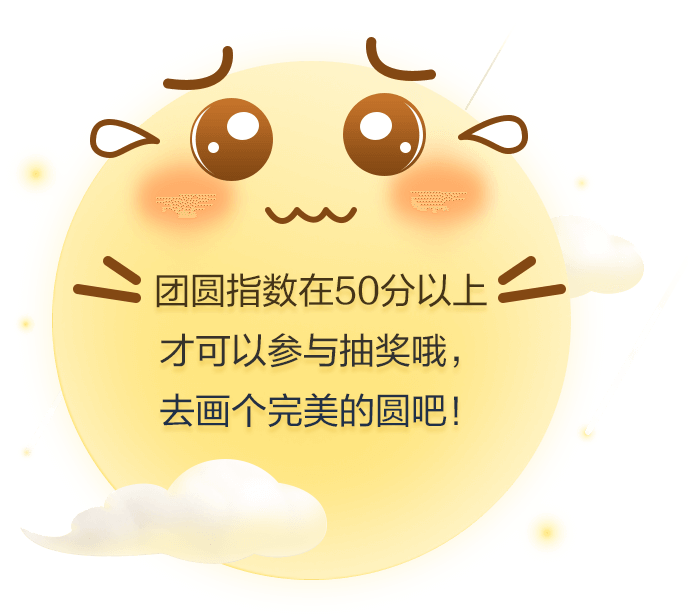
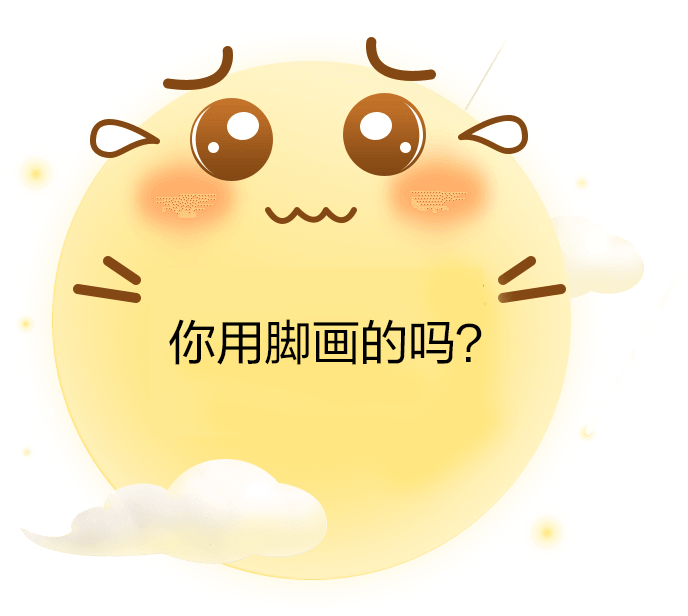
fix

Changed region(s): [[0.2137, 0.4318, 0.7326, 0.7711]]

diff --git a/index.html b/index.html
@@ -6,7 +6,7 @@
   <script>
     !function (a) { var b, c; /Android (\d+\.\d+)/.test(navigator.userAgent) ? (b = parseFloat(RegExp.$1), b > 2.3 ? (c = parseInt(window.screen.width) / a, document.write('<meta name="viewport" content="width=' + a + ",minimum-scale=" + c + ",maximum-scale=" + c + ', target-densitydpi=device-dpi">')) : document.write('<meta name="viewport" content="width=' + a + ',target-densitydpi=device-dpi">')) : document.write('<meta name="viewport" content="width=' + a + ',user-scalable=no,target-densitydpi=device-dpi,minimal-ui,viewport-fit=cover">') }(750);
   </script>
-  <link rel="stylesheet" href="index.css?v=1604">
+  <link rel="stylesheet" href="index.css?v=1720">
 </head>
 
 <body>
@@ -51,18 +51,16 @@
 
       <!-- 合格 -->
       <div class="pop-box pop-box-con pop-win" id="Jwin">
-        <p class="txt txt-1">团圆指数<span id="Jscore">0</span>分</p>
-        <!-- <p class="txt txt-2">你的团圆指数超过了<br><span id="Jpercent">0</span>%用户</p> -->
+        <p class="txt txt-1">团圆指数<span id="Jscore">0</span>%</p>
         <a id="JcloseWin" class="pop-box pop-win-btn"></a>
       </div>
     </div>
     <!-- 弹窗 e -->
     <div class="mask" id="Jmask">
-      <p class="mask-tips">点击蒙层开始游戏</p>
+      <p class="mask-tips">👆点击蒙层开始</p>
     </div>
   </div>
-  <!-- <script src="vconsole.min.js"></script> -->
-  <script src="game.js?v=1604"></script>
-  <script src="index.js?v=1604"></script>
+  <script src="game.js?v=1720"></script>
+  <script src="index.js?v=1720"></script>
 </body>
 </html>

diff --git a/index.css b/index.css
@@ -363,7 +363,7 @@ body {
 .pop-win .txt-1{
   font-size: 48px;
   line-height: 50px;
-  top: 300px;
+  top: 350px;
   left: 130px;
 }
 .pop-win .txt-2{
@@ -393,5 +393,9 @@ body {
   color: #fff;
 }
 .mask-tips{
-  padding-top: 50%;
+  position: absolute;
+  top:50%;
+  left: 50%;
+  transform: translate(-50%,-50%);
+  font-size: 32px;
 }
